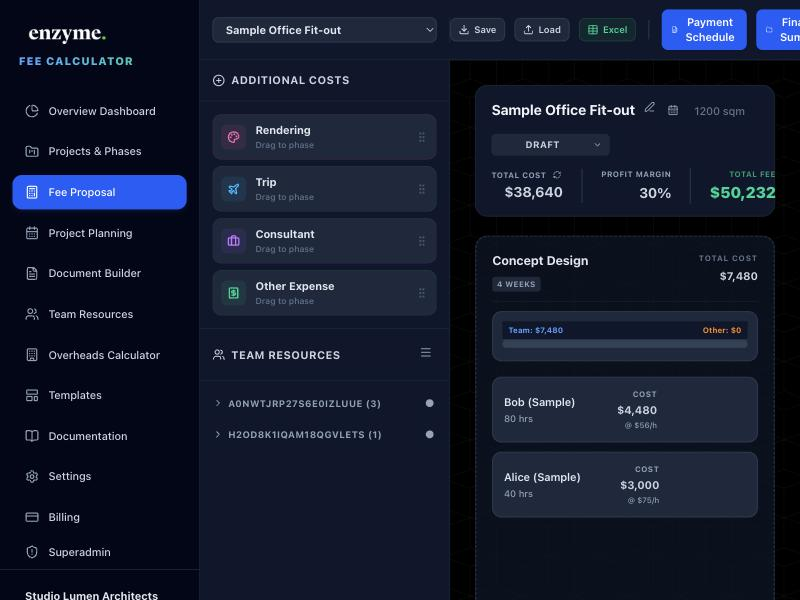
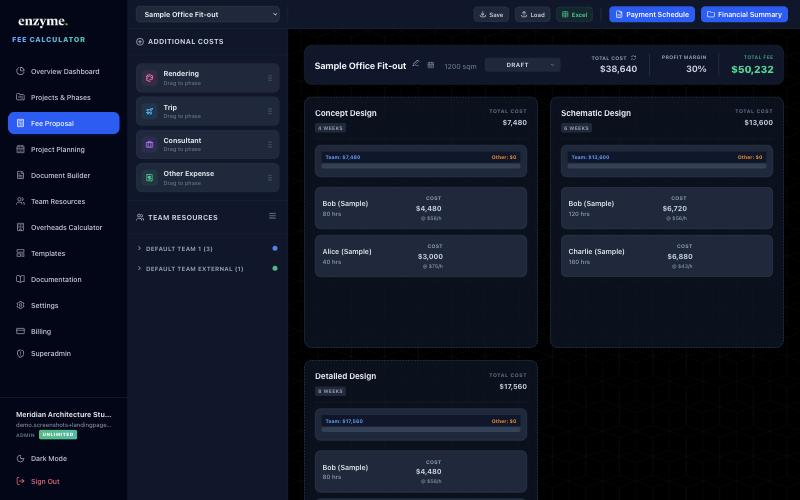
Replace cramped 3-up screenshot grid with a full-width feature walkthrough
The previous Product Preview section squeezed three screenshots into
thirds of the page width, which made them small and hard to read, and
one of them still showed the garbled category-name bug (now fixed) from
before that commit landed.

Replaced it with four full-width, alternating image+text rows (Team
Resources, Overheads Calculator, Projects & Phases, Fee Proposal), each
screenshot large enough to actually read, with a short explanation of
what that screen does next to it. Recaptured all four screenshots
against production after the category-collection fix, through a fresh
disposable signup (cleaned up afterward, same as before).

diff --git a/src/app/(marketing)/page.tsx b/src/app/(marketing)/page.tsx
@@ -50,22 +50,48 @@ export default function LandingPage() {
         </div>
       </section>
 
-      {/* Product Preview */}
-      <section className="px-4 sm:px-6 lg:px-8 max-w-7xl mx-auto -mt-16 pb-8">
-        <div className="grid md:grid-cols-3 gap-6">
-          <figure className="bg-white dark:bg-slate-900 rounded-2xl border border-slate-200 dark:border-slate-800 shadow-xl overflow-hidden">
-            <img src="/screenshots/fee-proposal.jpg" alt="Fee Proposal canvas: drag team members and costs into project phases to build a priced fee proposal in real time" className="w-full h-auto block" />
-            <figcaption className="px-5 py-4 text-sm font-semibold text-slate-700 dark:text-slate-300">Drag-and-drop fee proposals</figcaption>
-          </figure>
-          <figure className="bg-white dark:bg-slate-900 rounded-2xl border border-slate-200 dark:border-slate-800 shadow-xl overflow-hidden">
-            <img src="/screenshots/projects-phases.jpg" alt="Projects and Phases screen: manage project phases, team allocations, and payment milestones in one place" className="w-full h-auto block" />
-            <figcaption className="px-5 py-4 text-sm font-semibold text-slate-700 dark:text-slate-300">Phases, costs &amp; payment schedules</figcaption>
-          </figure>
-          <figure className="bg-white dark:bg-slate-900 rounded-2xl border border-slate-200 dark:border-slate-800 shadow-xl overflow-hidden">
-            <img src="/screenshots/project-planning.jpg" alt="Project Planning Gantt view: assign team members to a weekly timeline and track planned work against budget" className="w-full h-auto block" />
-            <figcaption className="px-5 py-4 text-sm font-semibold text-slate-700 dark:text-slate-300">Timeline &amp; resource planning</figcaption>
-          </figure>
-        </div>
+      {/* Product Walkthrough */}
+      <section className="px-4 sm:px-6 lg:px-8 max-w-7xl mx-auto pt-8 pb-24 space-y-24">
+        {[
+          {
+            img: '/screenshots/team-resources.jpg',
+            alt: 'Team Resources screen listing team members grouped by category with salary, overheads, and derived cost per hour',
+            title: 'Your team, priced accurately',
+            body: "Set each person's salary and overheads once — internal staff or external consultants — and the app derives their true hourly cost automatically. No more guessing what an hour of someone's time actually costs you.",
+          },
+          {
+            img: '/screenshots/overheads.jpg',
+            alt: 'Overheads Calculator showing target income, overhead categories, and the resulting cost multiplier',
+            title: 'Overheads built into every rate',
+            body: 'Model rent, software, insurance, and non-billable time by category, and sync the result straight into your team’s hourly rates. Change one overhead line and every project’s cost updates with it.',
+          },
+          {
+            img: '/screenshots/projects-phases.jpg',
+            alt: 'Projects and Phases screen showing a project’s phases, live total cost and fee, and payment schedule',
+            title: 'Phases, costs & payment schedules in one place',
+            body: 'Break a project into phases, and watch total cost, profit margin, and fee recalculate live as you work. Build the payment schedule from a preset — by phase, monthly, or weighted to each phase’s actual cost — or do it by hand.',
+          },
+          {
+            img: '/screenshots/fee-proposal.jpg',
+            alt: 'Fee Proposal canvas with team members and cost chips dragged into project phases, showing cost breakdowns',
+            title: 'Drag, drop, and the fee calculates itself',
+            body: 'Drag team members and expenses straight into project phases. Every allocation locks in that rate at the moment you assign it, so a salary change later never retroactively changes a fee you already sent a client.',
+          },
+        ].map((item, i) => (
+          <div key={item.title} className={`flex flex-col md:flex-row items-center gap-12 ${i % 2 === 1 ? 'md:flex-row-reverse' : ''}`}>
+            <div className="md:w-1/2 w-full">
+              <img
+                src={item.img}
+                alt={item.alt}
+                className="w-full h-auto rounded-2xl border border-slate-200 dark:border-slate-800 shadow-xl"
+              />
+            </div>
+            <div className="md:w-1/2 w-full">
+              <h3 className="text-2xl sm:text-3xl font-bold text-slate-900 dark:text-white mb-4">{item.title}</h3>
+              <p className="text-slate-500 dark:text-slate-400 text-lg leading-relaxed">{item.body}</p>
+            </div>
+          </div>
+        ))}
       </section>
 
       {/* Features Section */}
